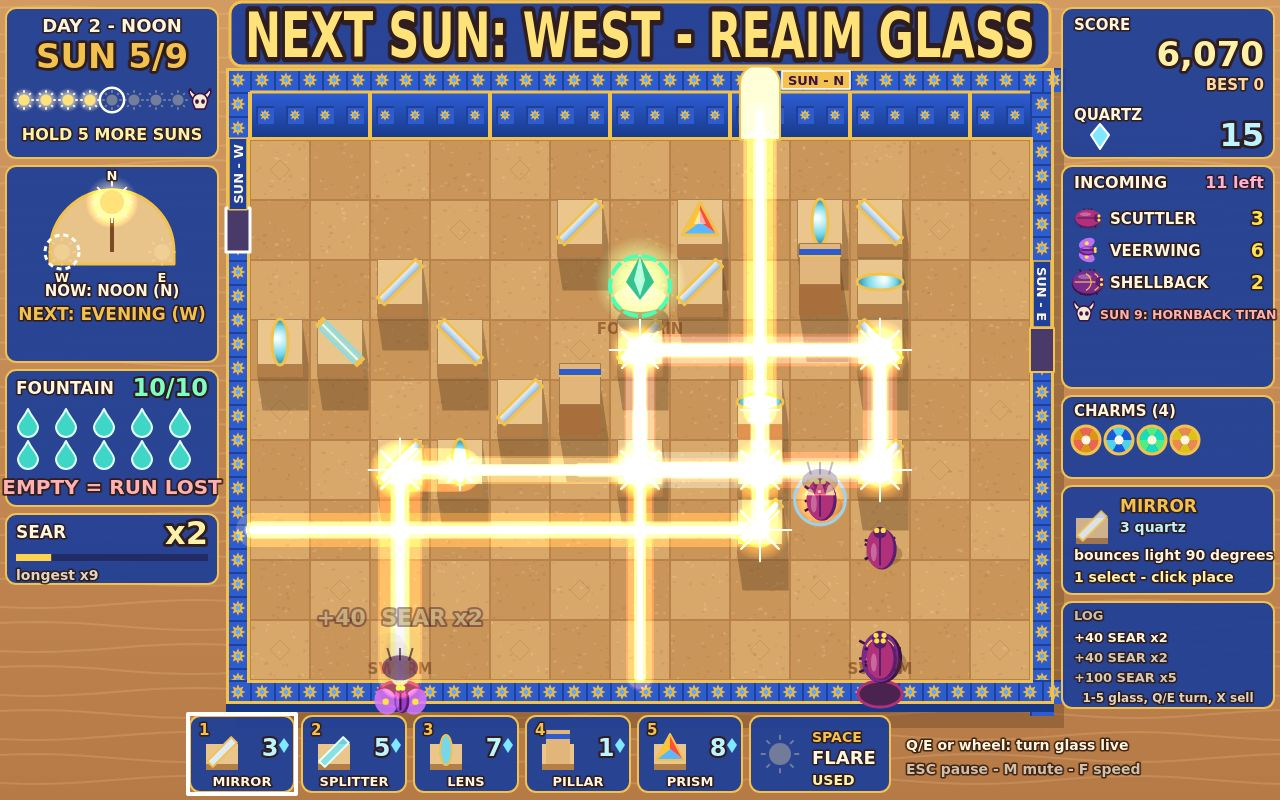
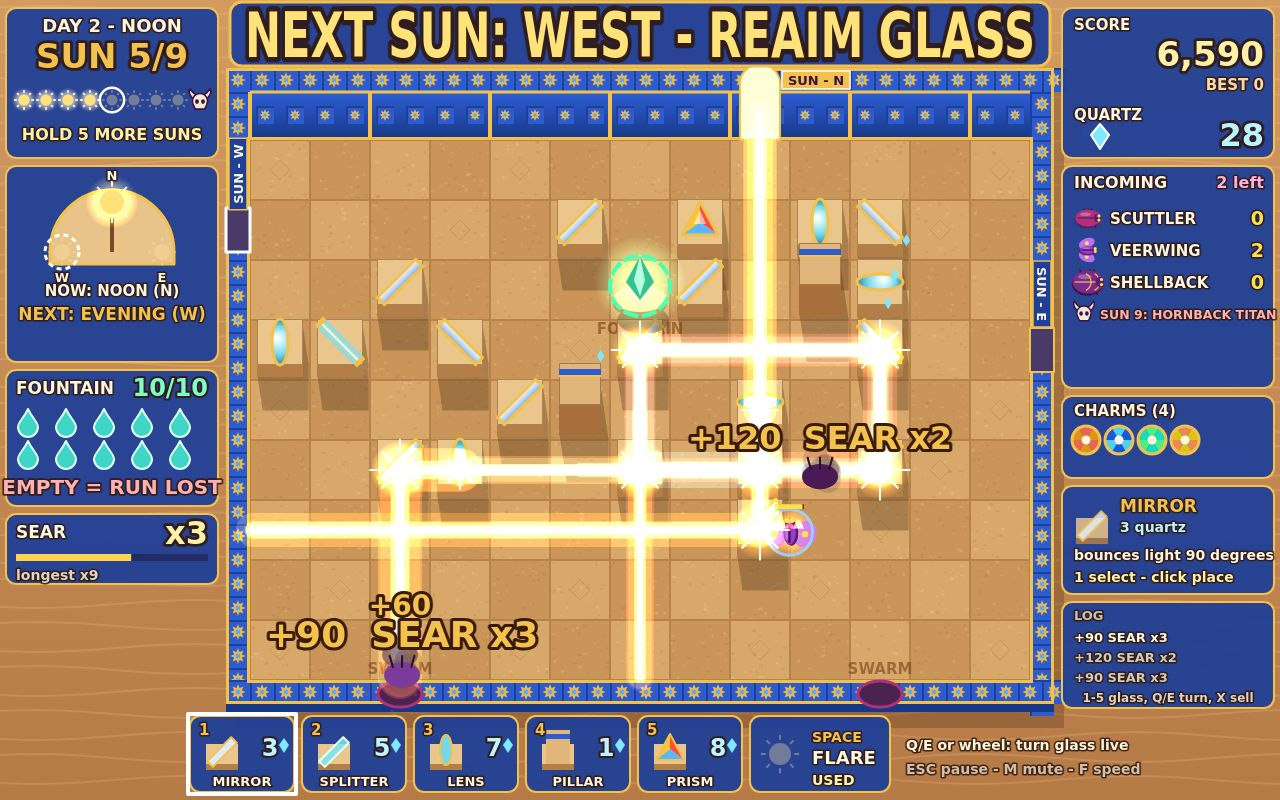
Floating numbers: gold (white at x4+) with a dark-brown stroke, 28 px growing to 44 px with the SEAR multiplier, 1.4x pop, opaque for 70% of life; red -n FOUNTAIN floater on a bite; staging waits for 3 opaque numbers

diff --git a/game/src/render/fx.js b/game/src/render/fx.js
@@ -4,6 +4,9 @@
 import { NAMES } from '../config.js';
 import { QUARTZ_ANCHOR, VIEW_H, VIEW_W, toScreenX, toScreenY } from './layout.js';
 
+/** Seconds a floating number lives (opaque for the first 70%). */
+export const FLOATER_LIFE = 1.4;
+
 export function createFx() {
   return { particles: [], texts: [], shake: 0, flash: 0, hurt: 0, seed: 12345, waveBanner: 0 };
 }
@@ -33,10 +36,11 @@ export function fxFromEvent(fx, ev) {
       fx.particles.push({ kind: 'quartz', x: x + k * 6, y, sx: x + k * 6, sy: y, vx: 0, vy: 0, life: 0.75 + k * 0.08, max: 0.75 + k * 0.08, size: 6, color: '#7FE8FF' });
     }
     const label = ev.mult > 1 ? `+${ev.points}  ${NAMES.combo} x${ev.mult}` : `+${ev.points}`;
-    fx.texts.push({ x, y: y - 18, text: label, life: 1.1, max: 1.1, color: ev.mult > 1 ? '#FFF2A8' : '#FFFFFF', size: ev.mult > 1 ? 22 : 17 });
+    fx.texts.push({ x, y: y - 18, text: label, life: FLOATER_LIFE, max: FLOATER_LIFE, color: ev.mult >= 4 ? '#FFFFFF' : '#F2C14E', size: 28 + (Math.min(ev.mult, 5) - 1) * 4 });
   } else if (ev.type === 'bite') {
     fx.shake = Math.min(14, fx.shake + 6 + ev.harm * 2);
     fx.hurt = 1;
+    fx.texts.push({ x: toScreenX(ev.x), y: toScreenY(ev.y) - 30, text: `-${ev.harm} ${NAMES.fountainShort}`, life: FLOATER_LIFE, max: FLOATER_LIFE, color: '#FF5C5C', size: 32 });
     burst(fx, toScreenX(ev.x), toScreenY(ev.y), 12, 'spark', '#FF5C5C', 120, 0.5, 3);
   } else if (ev.type === 'placed' || ev.type === 'lifted') {
     burst(fx, toScreenX(ev.c + 0.5), toScreenY(ev.r + 0.85), 12, 'smoke', 'rgba(232,196,140,', 50, 0.6, 7);
@@ -47,7 +51,7 @@ export function fxFromEvent(fx, ev) {
   } else if (ev.type === 'waveStart') {
     fx.waveBanner = 1;
   } else if (ev.type === 'denied' && ev.c !== undefined) {
-    fx.texts.push({ x: toScreenX(ev.c + 0.5), y: toScreenY(ev.r + 0.2), text: ev.reason, life: 1.2, max: 1.2, color: '#FF6B6B', size: 16 });
+    fx.texts.push({ x: toScreenX(ev.c + 0.5), y: toScreenY(ev.r + 0.2), text: ev.reason, life: 1.2, max: 1.2, color: '#FF6B6B', size: 20 });
   }
 }
 
@@ -76,7 +80,7 @@ export function updateFx(fx, run, dt) {
   fx.particles = fx.particles.filter((p) => p.life > 0);
   for (const t of fx.texts) {
     t.life -= dt;
-    t.y -= 30 * dt;
+    t.y -= 24 * dt;
   }
   fx.texts = fx.texts.filter((t) => t.life > 0);
   fx.shake = Math.max(0, fx.shake - dt * 30);
@@ -253,11 +257,16 @@ export function drawFx(ctx, fx) {
     }
   }
   ctx.textAlign = 'center';
+  ctx.lineJoin = 'round';
   for (const t of fx.texts) {
-    ctx.globalAlpha = Math.min(1, (t.life / t.max) * 2);
-    ctx.font = `800 ${t.size}px system-ui, sans-serif`;
-    ctx.lineWidth = 4;
-    ctx.strokeStyle = 'rgba(60,20,40,0.85)';
+    // Full strength for 70% of its life, then fade; pops from 1.4x to 1x as it appears.
+    const k = t.life / t.max;
+    const age = t.max - t.life;
+    ctx.globalAlpha = k > 0.3 ? 1 : Math.max(0, k / 0.3);
+    const pop = age < 0.15 ? 1.4 - (age / 0.15) * 0.4 : 1;
+    ctx.font = `900 ${Math.round(t.size * pop)}px system-ui, sans-serif`;
+    ctx.lineWidth = 6;
+    ctx.strokeStyle = '#3A1A08';
     ctx.strokeText(t.text, t.x, t.y);
     ctx.fillStyle = t.color;
     ctx.fillText(t.text, t.x, t.y);
